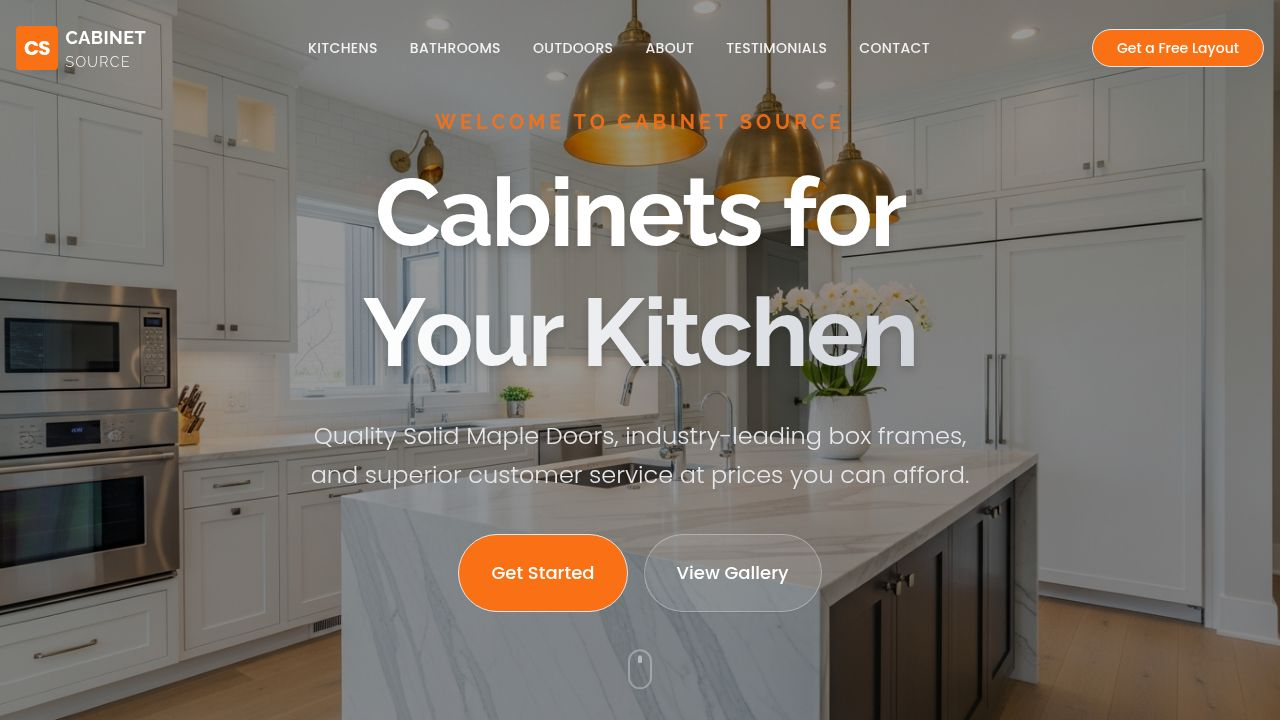
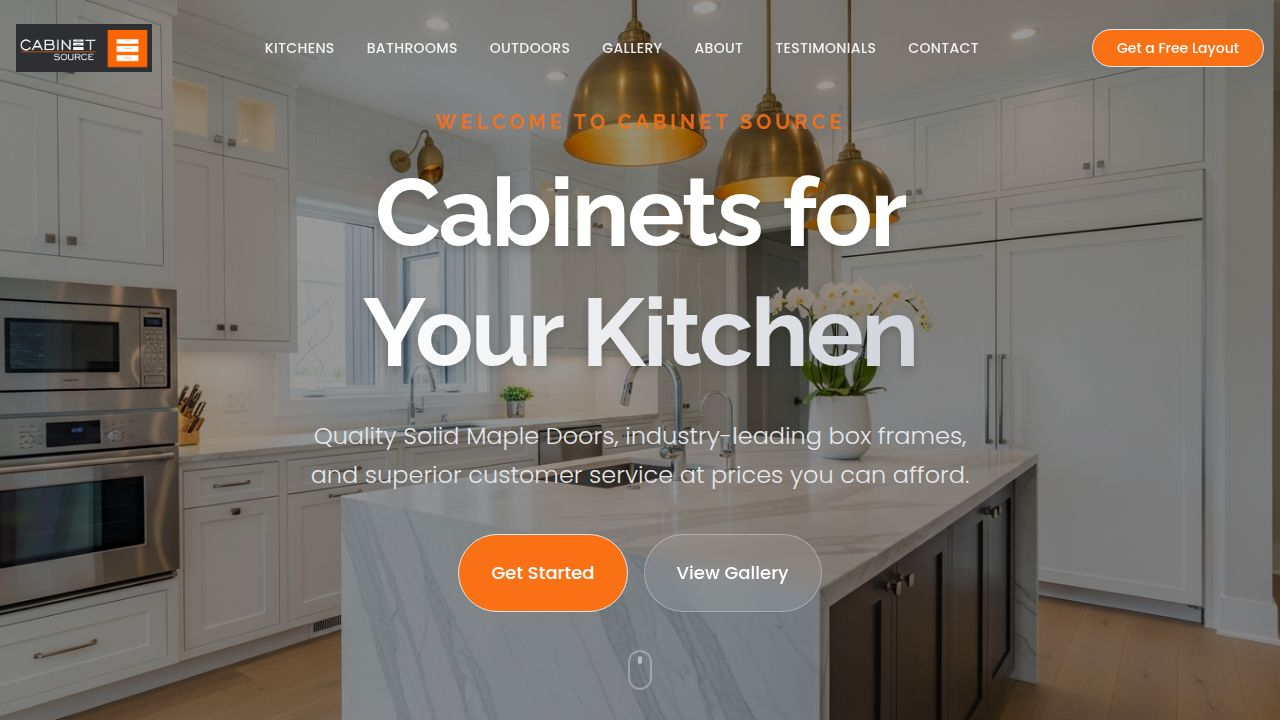
Add a visual project gallery to showcase recent work
Implement a new Gallery section with a responsive grid layout, image lightbox functionality, and corresponding navigation links in the Navbar and Footer.

Replit-Commit-Author: Agent
Replit-Commit-Session-Id: d017dd5d-9965-4e91-9b23-f9218ca504df
Replit-Commit-Checkpoint-Type: full_checkpoint
Replit-Commit-Event-Id: 2ad208ae-6957-4ac8-bccc-bc87db974d7a
Replit-Commit-Screenshot-Url: https://storage.googleapis.com/screenshot-production-us-central1/82be2547-54b3-4e6a-bc38-7ac211203ef7/d017dd5d-9965-4e91-9b23-f9218ca504df/cDGDuAZ
Replit-Helium-Checkpoint-Created: true

Changed region(s): [[0.2188, 0.0611, 0.75, 0.0917], [0.0, 0.0306, 0.125, 0.1222], [0.4688, 0.6417, 0.5, 0.6722]]

diff --git a/client/src/components/sections/Gallery.tsx b/client/src/components/sections/Gallery.tsx
@@ -1,0 +1,85 @@
+import { useState } from "react";
+import { motion } from "framer-motion";
+import { X } from "lucide-react";
+
+import img1 from "@assets/nc-cabinet-source-custom-cabinetry_1765688562341.jpg";
+import img2 from "@assets/custom-cabinet-workshop-nc_1765688562348.jpg";
+import img3 from "@assets/modern-custom-cabinetry-home_1765688562348.jpg";
+import img4 from "@assets/white-shaker-kitchen-cabinets-nc_1765688562348.jpg";
+import img5 from "@assets/modern-kitchen-cabinets-wood-finish_1765688562348.jpg";
+import img6 from "@assets/cabinet-design-consultation_1765688562348.jpg";
+import img7 from "@assets/cabinet-installation-in-progress-2_1765688562348.jpg";
+import img8 from "@assets/white-shaker-kitchen-cabinets_1765688562349.png";
+import img9 from "@assets/custom-kitchen-cabinets-north-carolina._1765688562349.jpg";
+
+const galleryImages = [
+  { src: img1, alt: "Custom Cabinetry Dark Wood" },
+  { src: img2, alt: "Custom Cabinet Workshop" },
+  { src: img3, alt: "Modern Custom Cabinetry Home" },
+  { src: img4, alt: "White Shaker Kitchen Cabinets" },
+  { src: img5, alt: "Modern Kitchen Cabinets Wood Finish" },
+  { src: img6, alt: "Cabinet Design Consultation" },
+  { src: img7, alt: "Cabinet Installation In Progress" },
+  { src: img8, alt: "White Shaker Kitchen Cabinets Detail" },
+  { src: img9, alt: "Custom Kitchen Cabinets North Carolina" },
+];
+
+export function Gallery() {
+  const [selectedImage, setSelectedImage] = useState<string | null>(null);
+
+  return (
+    <section id="gallery" className="py-24 bg-white">
+      <div className="container mx-auto px-4">
+        <div className="text-center max-w-3xl mx-auto mb-16">
+          <span className="text-primary font-bold tracking-wider uppercase text-sm mb-2 block">Our Work</span>
+          <h2 className="text-3xl md:text-4xl font-heading font-bold text-gray-900 mb-4">Project Gallery</h2>
+          <p className="text-gray-600 text-lg">
+            Browse through some of our recent custom cabinetry projects.
+          </p>
+        </div>
+
+        <div className="grid grid-cols-1 md:grid-cols-2 lg:grid-cols-3 gap-6">
+          {galleryImages.map((image, idx) => (
+            <motion.div
+              key={idx}
+              initial={{ opacity: 0, y: 20 }}
+              whileInView={{ opacity: 1, y: 0 }}
+              viewport={{ once: true }}
+              transition={{ delay: idx * 0.1 }}
+              className="relative aspect-[4/3] group cursor-pointer overflow-hidden rounded-xl shadow-md"
+              onClick={() => setSelectedImage(image.src)}
+            >
+              <img
+                src={image.src}
+                alt={image.alt}
+                className="w-full h-full object-cover transition-transform duration-500 group-hover:scale-110"
+              />
+              <div className="absolute inset-0 bg-black/0 group-hover:bg-black/20 transition-colors duration-300" />
+            </motion.div>
+          ))}
+        </div>
+      </div>
+
+      {/* Lightbox Modal */}
+      {selectedImage && (
+        <div 
+          className="fixed inset-0 z-[60] bg-black/90 flex items-center justify-center p-4"
+          onClick={() => setSelectedImage(null)}
+        >
+          <button 
+            className="absolute top-8 right-8 text-white hover:text-primary transition-colors"
+            onClick={() => setSelectedImage(null)}
+          >
+            <X className="w-10 h-10" />
+          </button>
+          <img 
+            src={selectedImage} 
+            alt="Gallery Fullscreen" 
+            className="max-w-full max-h-[90vh] object-contain rounded-lg shadow-2xl"
+            onClick={(e) => e.stopPropagation()}
+          />
+        </div>
+      )}
+    </section>
+  );
+}

diff --git a/client/src/components/layout/Footer.tsx b/client/src/components/layout/Footer.tsx
@@ -28,6 +28,7 @@ export function Footer() {
               <li><a href="#kitchens" className="hover:text-white transition-colors">Kitchen Cabinets</a></li>
               <li><a href="#bathrooms" className="hover:text-white transition-colors">Bathroom Vanities</a></li>
               <li><a href="#outdoors" className="hover:text-white transition-colors">Outdoor Kitchens</a></li>
+              <li><a href="#gallery" className="hover:text-white transition-colors">Gallery</a></li>
               <li><a href="#about" className="hover:text-white transition-colors">About Us</a></li>
               <li><a href="#testimonials" className="hover:text-white transition-colors">Reviews</a></li>
             </ul>

diff --git a/client/src/pages/Home.tsx b/client/src/pages/Home.tsx
@@ -3,6 +3,7 @@ import { Footer } from "@/components/layout/Footer";
 import { Hero } from "@/components/sections/Hero";
 import { Services } from "@/components/sections/Services";
 import { About } from "@/components/sections/About";
+import { Gallery } from "@/components/sections/Gallery";
 import { Testimonials } from "@/components/sections/Testimonials";
 import { Contact } from "@/components/sections/Contact";
 import { Helmet } from "react-helmet";
@@ -19,6 +20,7 @@ export default function Home() {
         <Navbar />
         <Hero />
         <Services />
+        <Gallery />
         <About />
         <Testimonials />
         <Contact />

diff --git a/client/src/components/layout/Navbar.tsx b/client/src/components/layout/Navbar.tsx
@@ -21,6 +21,7 @@ export function Navbar() {
     { name: "Kitchens", href: "#kitchens" },
     { name: "Bathrooms", href: "#bathrooms" },
     { name: "Outdoors", href: "#outdoors" },
+    { name: "Gallery", href: "#gallery" },
     { name: "About", href: "#about" },
     { name: "Testimonials", href: "#testimonials" },
     { name: "Contact", href: "#contact" },
